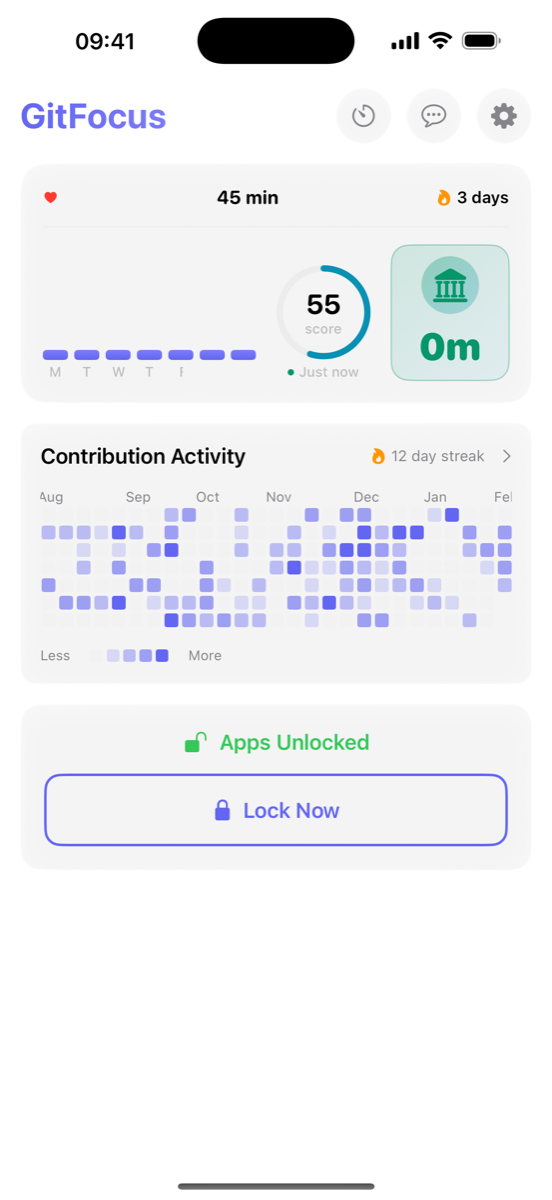
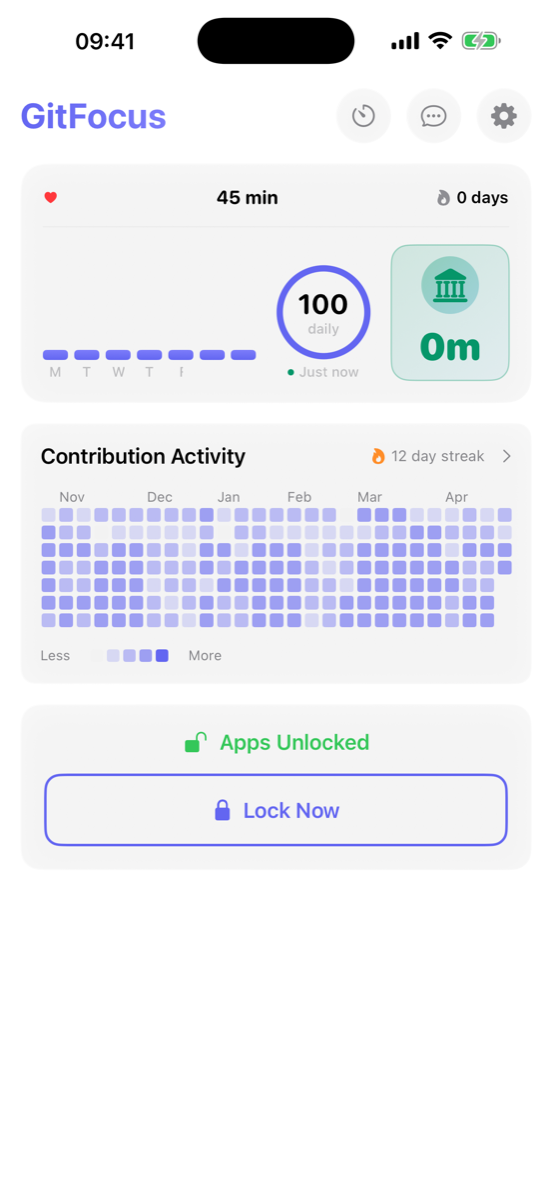
Update site for multi-account GitFocus release

diff --git a/index.html b/index.html
@@ -4,7 +4,7 @@
     <meta charset="UTF-8">
     <meta name="viewport" content="width=device-width, initial-scale=1.0">
     <title>GitFocus - Block Apps Until You Commit</title>
-    <meta name="description" content="GitFocus blocks distracting apps until you push code to GitHub. Turn commits into focus time. Available for iOS.">
+    <meta name="description" content="GitFocus blocks distracting apps until you push code to GitHub. Track one or multiple GitHub accounts and turn commits into focus time. Available for iOS.">
     <meta name="keywords" content="productivity, focus app, github, ios app, screen time, app blocker, developer tools">
     <meta name="author" content="GitFocus">
     <meta name="robots" content="index, follow">
@@ -14,7 +14,7 @@
     <meta property="og:type" content="website">
     <meta property="og:url" content="https://gitfocus.app/">
     <meta property="og:title" content="GitFocus - Block Apps Until You Commit">
-    <meta property="og:description" content="Turn commits into focus time. Block distracting apps until you push code to GitHub.">
+    <meta property="og:description" content="Turn commits into focus time. Block distracting apps until you push code to GitHub, with support for multiple GitHub accounts.">
     <meta property="og:image" content="https://gitfocus.app/assets/og-image.png">
     <meta property="og:image:width" content="1200">
     <meta property="og:image:height" content="630">
@@ -22,7 +22,7 @@
     <!-- Twitter -->
     <meta name="twitter:card" content="summary_large_image">
     <meta name="twitter:title" content="GitFocus - Block Apps Until You Commit">
-    <meta name="twitter:description" content="Turn commits into focus time. Block distracting apps until you push code to GitHub.">
+    <meta name="twitter:description" content="Turn commits into focus time. Block distracting apps until you push code to GitHub, with support for multiple GitHub accounts.">
     <meta name="twitter:image" content="https://gitfocus.app/assets/og-image.png">
 
     <!-- Favicon - dynamically updated by JavaScript for theme changes -->
@@ -42,7 +42,7 @@
         "name": "GitFocus",
         "operatingSystem": "iOS",
         "applicationCategory": "ProductivityApplication",
-        "description": "Block distracting apps until you push code to GitHub. Turn commits into focus time.",
+        "description": "Block distracting apps until you push code to GitHub. Track one or multiple GitHub accounts and turn commits into focus time.",
         "offers": {
             "@type": "Offer",
             "price": "0",
@@ -1542,8 +1542,8 @@
         </h1>
 
         <p class="hero-subtitle">
-            GitFocus gamifies your coding habits. Commit code → unlock your distracting apps.
-            It's that simple. No willpower required.
+            GitFocus gamifies your coding habits. Commit from one GitHub account or many,
+            then unlock your distracting apps. It's that simple.
         </p>
 
         <div class="hero-cta">
@@ -1587,13 +1587,13 @@
             <div class="screenshot-phone reveal">
                 <div class="screenshot-frame">
                     <!-- Dark mode screenshots (default) -->
-                    <img src="assets/screenshots-web/dark/01-github.png" alt="GitHub Username Setup" data-screenshot="0" class="screenshot-dark active">
+                    <img src="assets/screenshots-web/dark/01-github.png" alt="GitHub Accounts Setup" data-screenshot="0" class="screenshot-dark active">
                     <img src="assets/screenshots-web/dark/02-dashboard.png" alt="Home Dashboard" data-screenshot="1" class="screenshot-dark">
                     <img src="assets/screenshots-web/dark/03-focus-stats.png" alt="Focus Statistics" data-screenshot="2" class="screenshot-dark">
                     <img src="assets/screenshots-web/dark/04-contributions.png" alt="Contribution Statistics" data-screenshot="3" class="screenshot-dark">
                     <img src="assets/screenshots-web/dark/05-timer.png" alt="Focus Timer" data-screenshot="4" class="screenshot-dark">
                     <!-- Light mode screenshots -->
-                    <img src="assets/screenshots-web/light/01-github.png" alt="GitHub Username Setup" data-screenshot="0" class="screenshot-light active">
+                    <img src="assets/screenshots-web/light/01-github.png" alt="GitHub Accounts Setup" data-screenshot="0" class="screenshot-light active">
                     <img src="assets/screenshots-web/light/02-dashboard.png" alt="Home Dashboard" data-screenshot="1" class="screenshot-light">
                     <img src="assets/screenshots-web/light/03-focus-stats.png" alt="Focus Statistics" data-screenshot="2" class="screenshot-light">
                     <img src="assets/screenshots-web/light/04-contributions.png" alt="Contribution Statistics" data-screenshot="3" class="screenshot-light">
@@ -1625,23 +1625,23 @@
                 <div class="screenshot-step active" data-screenshot="0">
                     <div class="step-header">
                         <div class="step-number">01</div>
-                        <div class="step-title">Link GitHub</div>
+                        <div class="step-title">Add GitHub accounts</div>
                     </div>
-                    <p class="step-desc">Enter your username and see your contribution graph instantly</p>
+                    <p class="step-desc">Track one account or aggregate work, personal, and open-source profiles</p>
                 </div>
                 <div class="screenshot-step" data-screenshot="1">
                     <div class="step-header">
                         <div class="step-number">02</div>
                         <div class="step-title">Dashboard</div>
                     </div>
-                    <p class="step-desc">Track your streak, score, and app lock status at a glance</p>
+                    <p class="step-desc">Track your streak, daily score, and app lock status at a glance</p>
                 </div>
                 <div class="screenshot-step" data-screenshot="2">
                     <div class="step-header">
                         <div class="step-number">03</div>
                         <div class="step-title">Focus Stats</div>
                     </div>
-                    <p class="step-desc">Track your focus sessions and see how your productivity grows</p>
+                    <p class="step-desc">Start at 100 each day and see blocked-app time and unlocks burn it down</p>
                 </div>
                 <div class="screenshot-step" data-screenshot="3">
                     <div class="step-header">
@@ -1677,8 +1677,8 @@
                 <div class="feature-icon green">⏱</div>
                 <h3 class="feature-title">Earn Time</h3>
                 <p class="feature-desc">
-                    Every commit you push to GitHub earns you unlock time.
-                    More productive code = more freedom.
+                    Every commit from your included GitHub accounts earns unlock time.
+                    Keep work, personal, and open-source activity together.
                 </p>
                 <div class="counter-display">
                     <span id="time-counter">5</span>
@@ -1784,7 +1784,7 @@
                 <div class="feature-icon green">🔒</div>
                 <h3 class="feature-title">Privacy First</h3>
                 <p class="feature-desc">
-                    No account needed. No data collection. Everything stays on your device.
+                    No GitFocus account. No GitHub login. Everything stays on your device.
                 </p>
                 <div style="margin-top: 16px; font-family: var(--font-mono); font-size: 0.8rem;">
                     <div style="display: flex; align-items: center; gap: 8px; margin-bottom: 8px;">

diff --git a/support.html b/support.html
@@ -671,7 +671,8 @@
                 </button>
                 <div class="faq-answer">
                     <div class="faq-answer-content">
-                        <p>No! GitFocus only needs your GitHub username. We read your public contribution graph (the green squares on your profile) to detect commits. No OAuth, no tokens, no passwords required.</p>
+                        <p>No! GitFocus only needs the GitHub username or usernames you choose to track. We read public contribution graphs (the green squares on profiles) to detect commits. No OAuth, no tokens, no passwords required.</p>
+                        <p style="margin-top: 12px;">You can add multiple GitHub accounts and decide which ones count toward commit detection.</p>
                     </div>
                 </div>
             </div>
@@ -784,6 +785,7 @@
                         <p>Here are some things to check:</p>
                         <ul style="margin-top: 12px; margin-left: 20px;">
                             <li>Make sure your GitHub username is entered correctly</li>
+                            <li>If you use multiple accounts, check that the right accounts are enabled for commit detection</li>
                             <li>Check that your commits show up on your GitHub profile's contribution graph</li>
                             <li>If using private repos, ensure "Private contributions" is enabled in GitHub settings</li>
                             <li>Wait a few minutes — GitHub's contribution graph can take time to update</li>
@@ -841,7 +843,7 @@
                             <li>Reinstall from the App Store</li>
                             <li>Go through the onboarding again</li>
                         </ul>
-                        <p style="margin-top: 12px;">Note: Your GitHub username is stored in the Keychain for convenience, so it may be pre-filled when you reinstall.</p>
+                        <p style="margin-top: 12px;">Note: Your GitHub username or account list is stored securely for convenience, so it may be pre-filled when you reinstall.</p>
                     </div>
                 </div>
             </div>

diff --git a/privacy.html b/privacy.html
@@ -529,7 +529,7 @@
                 Everything the app needs to function is stored locally on your device:
             </p>
             <ul>
-                <li>Your GitHub username (to check public commits)</li>
+                <li>Your GitHub username or usernames (to check public commits)</li>
                 <li>Your app selection preferences</li>
                 <li>Your focus session history</li>
                 <li>Your earned time and streak data</li>
@@ -540,7 +540,7 @@
         <section class="content-section">
             <h2>GitHub Integration</h2>
             <p>
-                GitFocus reads your public GitHub contribution data to determine when you've made commits. Here's how it works:
+                GitFocus reads public GitHub contribution data for the username or usernames you add to determine when you've made commits. Here's how it works:
             </p>
 
             <h3>What We Access</h3>
@@ -561,7 +561,7 @@
             <div class="highlight-box green">
                 <h3>✅ No OAuth Required</h3>
                 <p>
-                    We intentionally designed GitFocus to work without GitHub authentication. We only read publicly available information that anyone can see by visiting your GitHub profile.
+                    We intentionally designed GitFocus to work without GitHub authentication. You can add one or multiple GitHub usernames, and we only read publicly available information that anyone can see by visiting those GitHub profiles.
                 </p>
             </div>
         </section>
@@ -598,7 +598,7 @@
             </p>
             <ul>
                 <li><strong>UserDefaults</strong> — Settings and preferences</li>
-                <li><strong>Keychain</strong> — Your GitHub username (for persistence across reinstalls)</li>
+                <li><strong>Keychain</strong> — Your primary GitHub username (for persistence across reinstalls)</li>
                 <li><strong>App Group</strong> — Shared data between app and extensions</li>
             </ul>
             <p>

diff --git a/staging.html b/staging.html
@@ -1759,14 +1759,14 @@
                         <div class="step-number">02</div>
                         <div class="step-title">Dashboard</div>
                     </div>
-                    <p class="step-desc">Track your streak, score, and app lock status at a glance</p>
+                    <p class="step-desc">Track your streak, daily score, and app lock status at a glance</p>
                 </div>
                 <div class="screenshot-step" data-screenshot="2">
                     <div class="step-header">
                         <div class="step-number">03</div>
                         <div class="step-title">Focus Stats</div>
                     </div>
-                    <p class="step-desc">Track your focus sessions and see how your productivity grows</p>
+                    <p class="step-desc">Start at 100 each day and see blocked-app time and unlocks burn it down</p>
                 </div>
                 <div class="screenshot-step" data-screenshot="3">
                     <div class="step-header">
